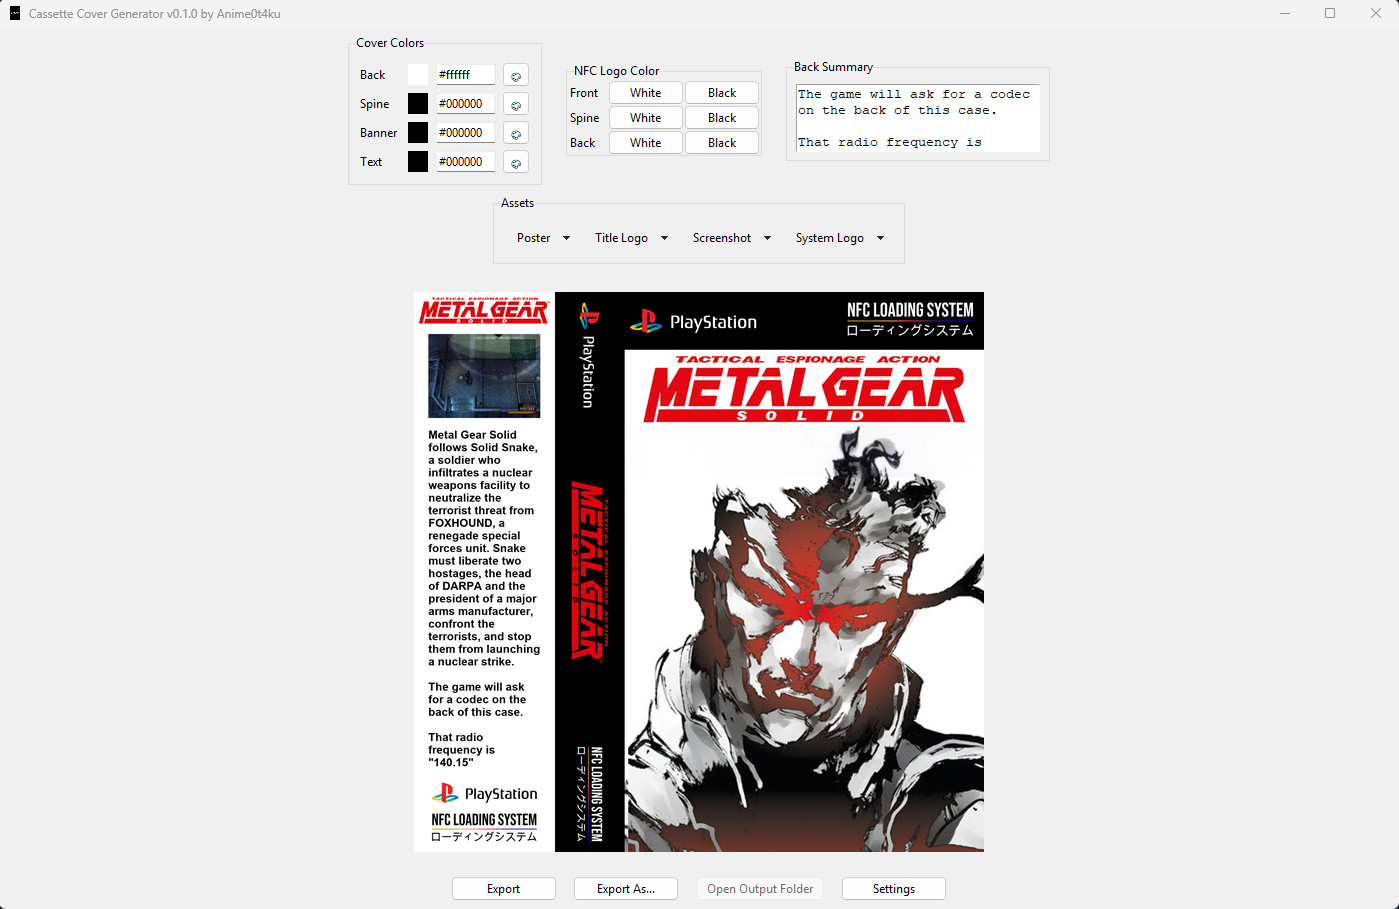
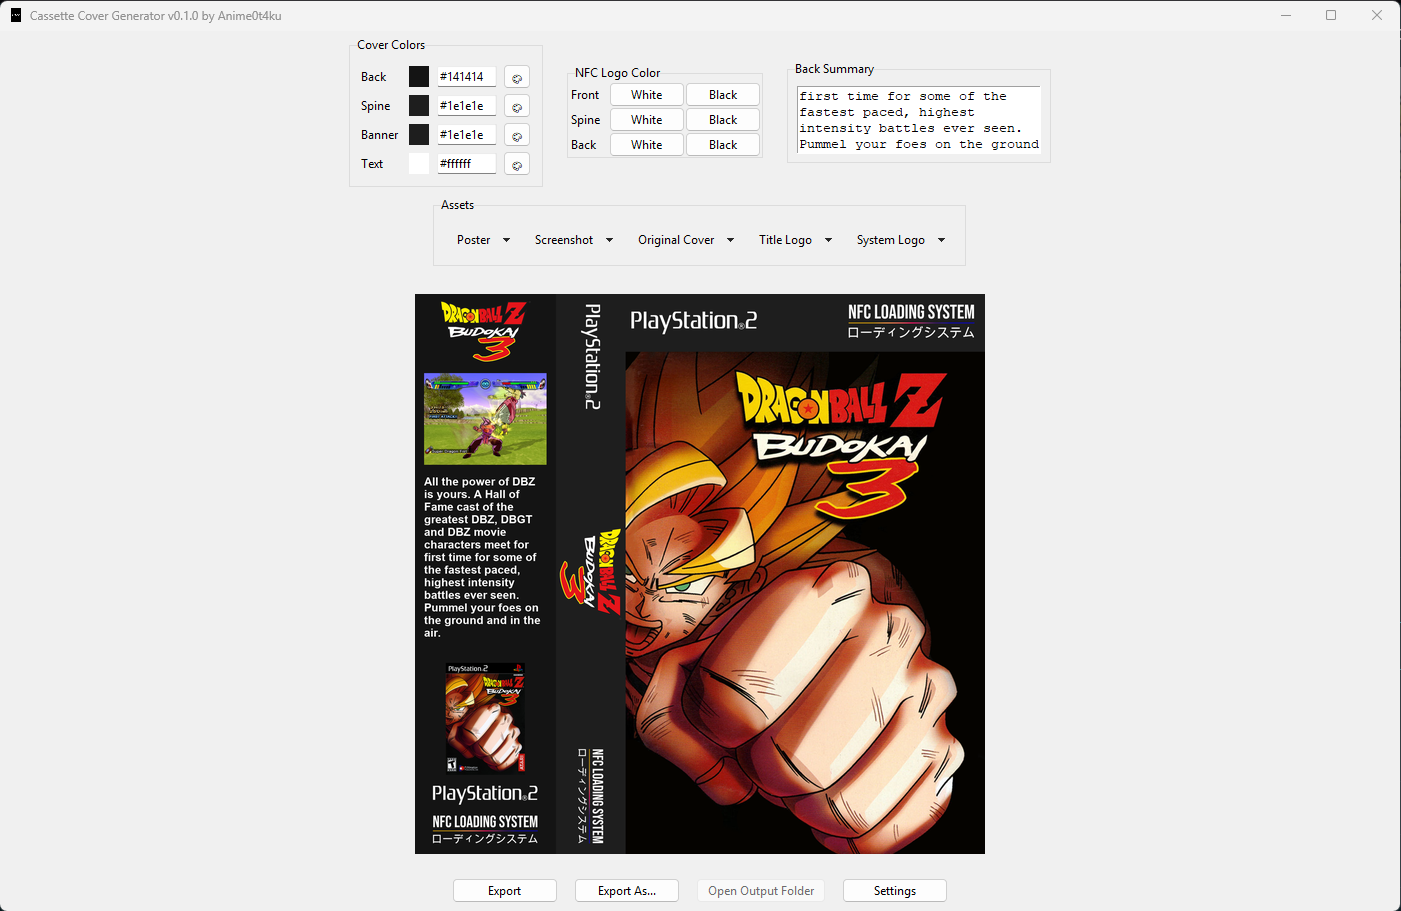
v.0.2.0
added original cover art to the back.

diff --git a/nfc-cassette-cover-generator/nfc-cassette-cover-generator.py b/nfc-cassette-cover-generator/nfc-cassette-cover-generator.py
@@ -17,7 +17,7 @@ from PIL import Image, ImageDraw, ImageTk, ImageFont
 # CONFIG
 # ============================================================
 
-APP_TITLE = "Cassette Cover Generator v0.1.0 by Anime0t4ku"
+APP_TITLE = "Cassette Cover Generator v0.2.0 by Anime0t4ku"
 CONFIG_FILE = "config.json"
 
 DEFAULT_CONFIG = {
@@ -67,6 +67,8 @@ TITLE_LOGO_BACK_MAX = (375, 180)
 TITLE_LOGO_SPINE_MAX = (183, 520)
 
 SCREENSHOT_MAX = (350, 420)
+
+ORIGINAL_COVER_BACK_MAX = (320, 320)
 
 SYSTEM_LOGO_FRONT_MAX = (360, 100)
 SYSTEM_LOGO_SPINE_MAX = (120, 300)
@@ -190,6 +192,7 @@ class CassetteApp(tk.Tk):
             "system_logo_front": None,
             "system_logo_spine": None,
             "system_logo_back": None,
+            "original_cover_back": None,
             "screenshot": None,
             "summary": ""
         }
@@ -392,6 +395,7 @@ class CassetteApp(tk.Tk):
         buttons = [
             ("Poster", "poster"),
             ("Screenshot", "screenshot"),
+            ("Original Cover", "original_cover_back"),
         ]
 
         for i, (label, key) in enumerate(buttons):
@@ -414,8 +418,9 @@ class CassetteApp(tk.Tk):
             )
 
             menu_button["menu"] = menu
-            column = 2 if key == "screenshot" else 0
-            menu_button.grid(row=1, column=column, padx=6, pady=6)
+
+            # Automatically place buttons next to each other
+            menu_button.grid(row=1, column=i, padx=6, pady=6)
 
         # --------------------------------------------------
         # TITLE LOGO (NESTED MENU LIKE SYSTEM LOGO)
@@ -470,7 +475,7 @@ class CassetteApp(tk.Tk):
 
         title_btn["menu"] = title_menu
         self.title_logo_menu = title_menu
-        title_btn.grid(row=1, column=1, padx=6, pady=6)
+        title_btn.grid(row=1, column=3, padx=6, pady=6)
 
         # --------------------------------------------------
         # SYSTEM LOGO (SPECIAL NESTED MENU)
@@ -525,7 +530,7 @@ class CassetteApp(tk.Tk):
             self.system_logo_menu_indices[side] = system_menu.index("end")
 
         system_btn["menu"] = system_menu
-        system_btn.grid(row=1, column=3, padx=6, pady=6)
+        system_btn.grid(row=1, column=4, padx=6, pady=6)
 
         self.system_logo_menu = system_menu
         self.update_override_states()
@@ -875,22 +880,46 @@ class CassetteApp(tk.Tk):
 
             y += text_box.height + BACK_GAP
 
-        # Paste NFC back
-        img.paste(
-            nfc_back,
-            ((BACK_W - nfc_back.width) // 2,
-             CARD_H - nfc_back.height - NFC_MARGIN),
-            nfc_back
-        )
+        # --- ORIGINAL COVER  ---
 
-        # Paste system logo above NFC
+        original_cover = self.assets["original_cover_back"]
+
+        # Calculate base Y positions
+        nfc_y = CARD_H - nfc_back.height - NFC_MARGIN
+
+        sys_y = None
+        if sys_back:
+            sys_y = nfc_y - sys_back.height - BACK_GAP
+
+        orig_y = None
+        if original_cover:
+            original_img = fit_image(original_cover, *ORIGINAL_COVER_BACK_MAX)
+
+            if sys_back:
+                orig_y = sys_y - original_img.height - BACK_GAP
+            else:
+                orig_y = nfc_y - original_img.height - BACK_GAP
+
+            img.paste(
+                original_img,
+                ((BACK_W - original_img.width) // 2, orig_y),
+                original_img
+            )
+
+        # --- Paste system logo ---
         if sys_back:
             img.paste(
                 sys_back,
-                ((BACK_W - sys_back.width) // 2,
-                 CARD_H - nfc_back.height - sys_back.height - BACK_GAP - NFC_MARGIN),
+                ((BACK_W - sys_back.width) // 2, sys_y),
                 sys_back
             )
+
+        # --- Paste NFC back ---
+        img.paste(
+            nfc_back,
+            ((BACK_W - nfc_back.width) // 2, nfc_y),
+            nfc_back
+        )
 
         return img
 
